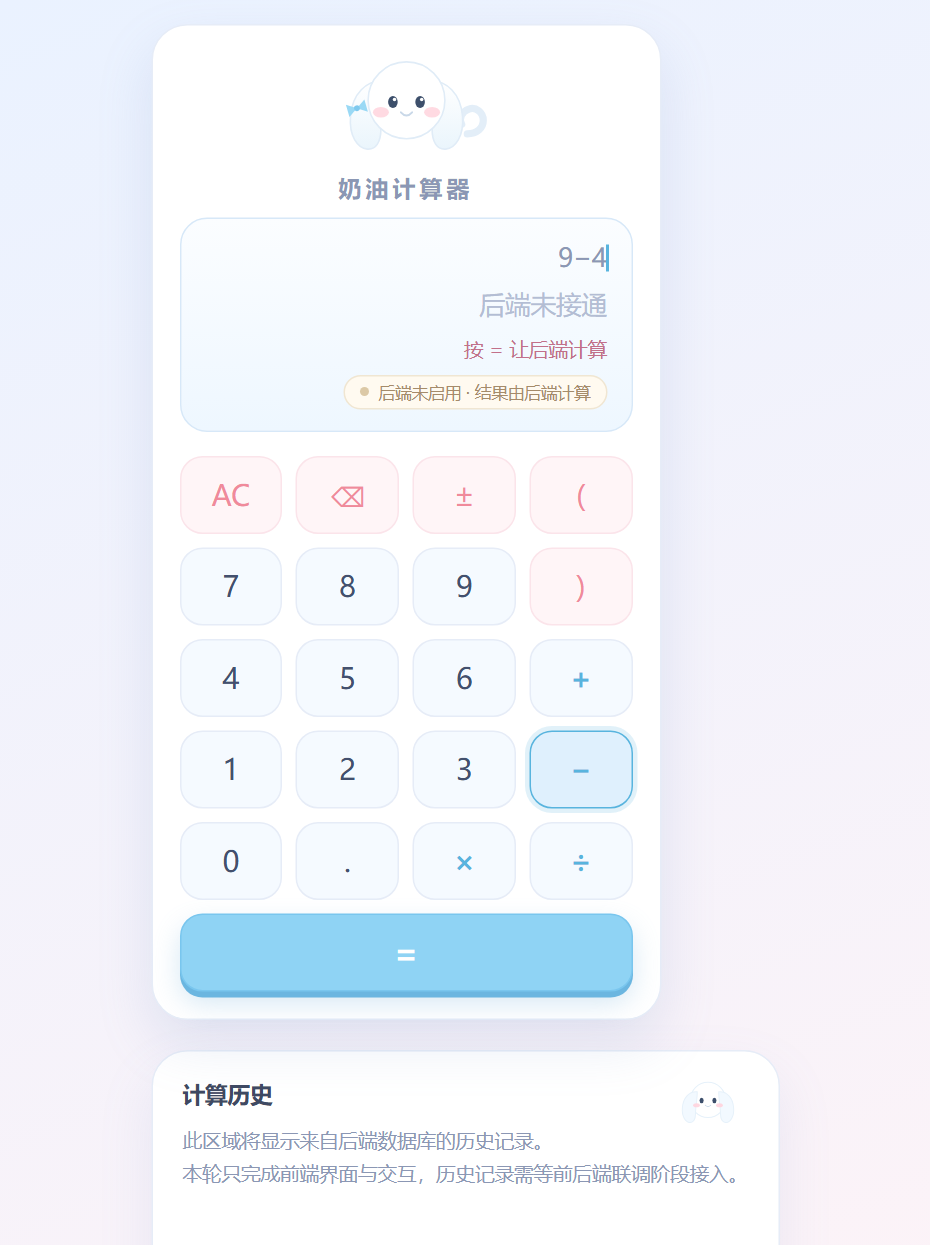
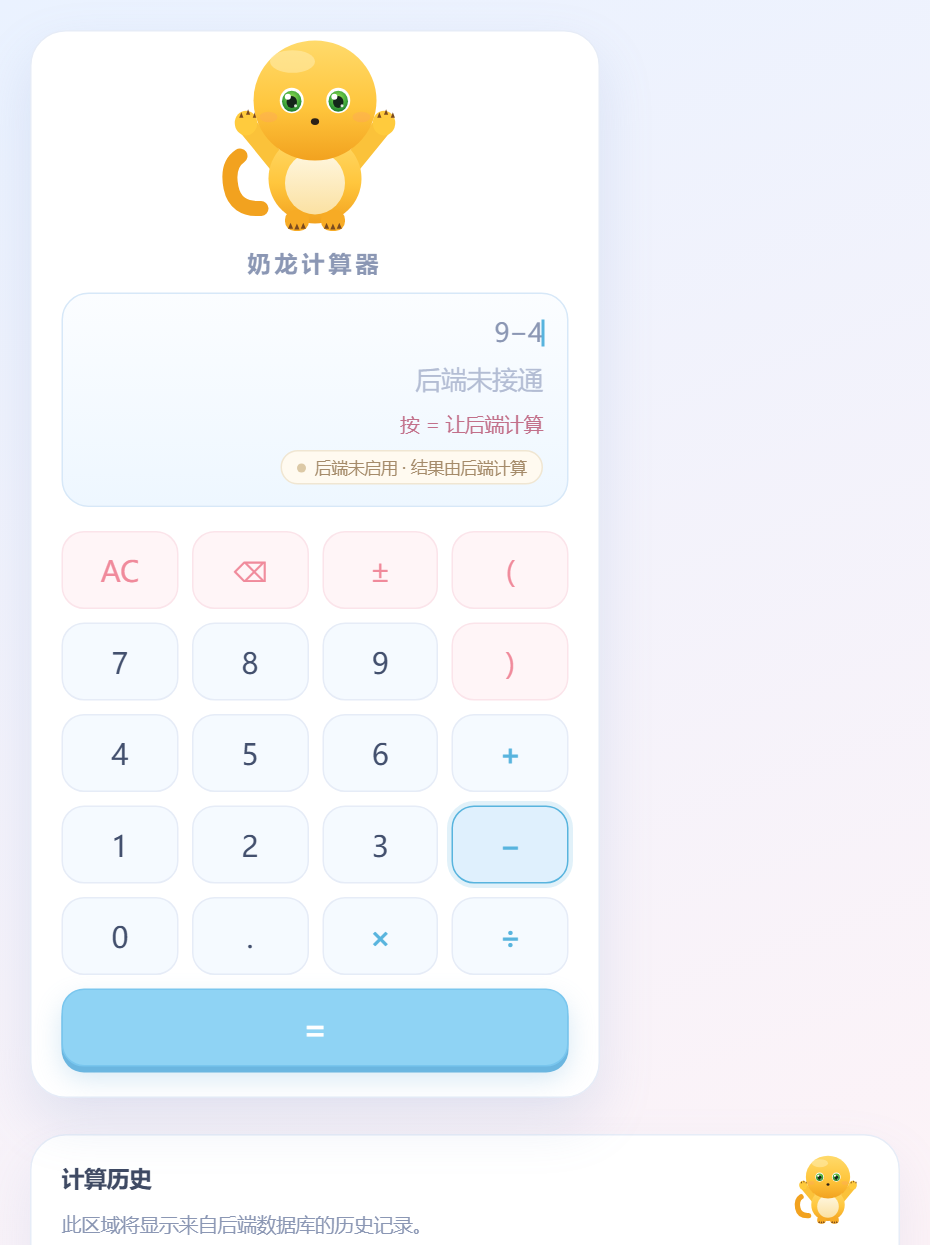
style: 改为亮色系、修正居中、吉祥物换成手绘奶龙
配色：深色改为奶油白 + 天空蓝 + 淡粉，等号做成立体糖果按钮（按下会下沉）。

居中：.app 改为 width:max-content + margin:auto，浏览器窗口越宽越能看出差别（原来会被拉满全宽导致内容偏左）。计算器宽度 340→380px。

吉祥物：原先误画成白色长耳形象，现按奶龙真实特征重画为 src/assets/奶龙.svg —— 暖黄皮肤、大圆绿眼睛、小黑鼻子（不画嘴）、浅奶油色大肚子、举起带深棕爪子的双手、粗短腿、粗尾巴。仍为手绘 SVG，不引用任何官方图片素材。

diff --git a/src/index.html b/src/index.html
@@ -11,55 +11,14 @@
   <main class="app">
     <section class="calc" aria-label="计算器">
       <!--
-        吉祥物：奶龙。
-        用**内联 SVG 手绘**，不引用任何外部图片文件 —— 所以不联网也能显示，
-        也不需要从网上下载任何素材（既避免安全风险，也没有版权问题）。
+        吉祥物：奶龙（Nailong）。
+        用**自己手绘的 SVG 文件**（src/assets/奶龙.svg），不引用任何官方图片素材：
+        不联网也能显示，不需要从网上下载图片，也不涉及他人素材的版权问题。
       -->
-      <div class="calc__mascot" aria-hidden="true">
-        <svg class="mascot" viewBox="0 0 240 172">
-          <defs>
-            <linearGradient id="earShade" x1="0" y1="0" x2="0" y2="1">
-              <stop offset="0%" stop-color="#ffffff"/>
-              <stop offset="100%" stop-color="#eaf5fc"/>
-            </linearGradient>
-          </defs>
-
-          <!-- 卷卷的小尾巴 -->
-          <path d="M196 128c12 0 20-7 20-17s-9-17-18-14-13 12-9 19"
-                fill="none" stroke="#e3eef8" stroke-width="9" stroke-linecap="round"/>
-
-          <!-- 两只长耳朵：从头顶向上再向外弯，耳尖自然垂下来 -->
-          <path d="M92 62C70 60 52 78 50 106c-2 25 9 40 21 41 11 1 17-9 17-25 0-20 6-46 12-60z"
-                fill="url(#earShade)" stroke="#e0ecf7" stroke-width="2"/>
-          <path d="M148 62c22-2 40 16 42 44 2 25-9 40-21 41-11 1-17-9-17-25 0-20-6-46-12-60z"
-                fill="url(#earShade)" stroke="#e0ecf7" stroke-width="2"/>
-
-          <!-- 脑袋 -->
-          <circle cx="120" cy="86" r="48" fill="#ffffff" stroke="#e0ecf7" stroke-width="2"/>
-
-          <!-- 圆眼睛（带一点高光） -->
-          <ellipse cx="103" cy="88" rx="6" ry="7.5" fill="#3d4f6b"/>
-          <ellipse cx="137" cy="88" rx="6" ry="7.5" fill="#3d4f6b"/>
-          <circle cx="105" cy="85" r="2.2" fill="#ffffff"/>
-          <circle cx="139" cy="85" r="2.2" fill="#ffffff"/>
-
-          <!-- 腮红 -->
-          <ellipse cx="88" cy="101" rx="10" ry="6.5" fill="#ffd3dd" opacity=".85"/>
-          <ellipse cx="152" cy="101" rx="10" ry="6.5" fill="#ffd3dd" opacity=".85"/>
-
-          <!-- 小嘴：一条浅浅的 w -->
-          <path d="M113 101q7 8 14 0" fill="none" stroke="#c9d8e8" stroke-width="2.4"
-                stroke-linecap="round"/>
-
-          <!-- 左耳上的蓝色小蝴蝶结 -->
-          <g transform="translate(58 96) rotate(-16)">
-            <path d="M0 0l-12-8v16z" fill="#9ad9f5"/>
-            <path d="M0 0l12-8v16z" fill="#9ad9f5"/>
-            <circle cx="0" cy="0" r="3.6" fill="#7fc9ee"/>
-          </g>
-        </svg>
+      <div class="calc__mascot">
+        <img class="mascot" src="assets/奶龙.svg" alt="奶龙">
       </div>
-      <h1 class="calc__title">奶油计算器</h1>
+      <h1 class="calc__title">奶龙计算器</h1>
 
       <!-- 显示屏：表达式行 + 结果行 + 提示条 + 后端状态 -->
       <div class="screen">
@@ -108,20 +67,8 @@
 
     <!-- 历史记录：本轮为占位区，按要求不放任何假数据 -->
     <aside class="history" aria-label="计算历史">
-      <!-- 历史卡片右上角的小奶龙：同一套画法，缩小复用 -->
-      <svg class="history__mascot" viewBox="0 0 240 172" aria-hidden="true">
-        <circle cx="120" cy="90" r="52" fill="#ffffff" stroke="#e6f1fa" stroke-width="3"/>
-        <path d="M88 66C64 64 46 84 44 114c-2 26 10 42 22 43 11 1 17-10 17-26 0-21 6-49 5-65z"
-              fill="#f2f9ff" stroke="#e6f1fa" stroke-width="3"/>
-        <path d="M152 66c24-2 42 18 44 48 2 26-10 42-22 43-11 1-17-10-17-26 0-21-6-49-5-65z"
-              fill="#f2f9ff" stroke="#e6f1fa" stroke-width="3"/>
-        <ellipse cx="101" cy="92" rx="6" ry="8" fill="#3d4f6b"/>
-        <ellipse cx="139" cy="92" rx="6" ry="8" fill="#3d4f6b"/>
-        <ellipse cx="86" cy="106" rx="10" ry="6" fill="#ffd3dd" opacity=".9"/>
-        <ellipse cx="154" cy="106" rx="10" ry="6" fill="#ffd3dd" opacity=".9"/>
-        <path d="M112 106q8 8 16 0" fill="none" stroke="#c9d8e8" stroke-width="3"
-              stroke-linecap="round"/>
-      </svg>
+      <!-- 历史卡片右上角的小奶龙：同一张图缩小复用 -->
+      <img class="history__mascot" src="assets/奶龙.svg" alt="">
       <h2 class="history__title">计算历史</h2>
       <p class="history__placeholder">
         此区域将显示来自后端数据库的历史记录。<br>

diff --git a/src/css/style.css b/src/css/style.css
@@ -52,11 +52,13 @@
 body {
   margin: 0;
   min-height: 100vh;
+  width: 100%;
   display: grid;
   place-items: center;
-  padding: 16px;
+  padding: 20px;
   /* 淡淡的天空蓝 → 淡粉渐变背景，比纯色更有"奶"的感觉 */
   background: linear-gradient(160deg, var(--bg-base) 0%, var(--bg-base-2) 100%);
+  background-attachment: fixed;
   color: var(--text);
   font-family: "Microsoft YaHei", system-ui, -apple-system, sans-serif;
   -webkit-user-select: none;
@@ -64,25 +66,31 @@ body {
 }
 
 /* ---------- ① 两栏：左计算器 / 右历史 ---------- */
+/* width:max-content + margin:auto：让整个组合在页面里**正中**，
+   而不是被拉满全宽后靠左对齐（浏览器窗口越宽，这个差别越明显） */
 .app {
+  width: max-content;
+  max-width: 100%;
+  margin: 0 auto;
   display: grid;
-  grid-template-columns: 340px minmax(240px, 300px);
-  gap: 20px;
+  grid-template-columns: 380px minmax(250px, 300px);
+  gap: 24px;
   align-items: start;
 }
 
-@media (max-width: 720px) {
+@media (max-width: 780px) {
   .app {
     grid-template-columns: 1fr;
+    width: 100%;
   }
 }
 
 /* ---------- ② 机身 ---------- */
 .calc {
   position: relative;
-  width: 340px;
+  width: 380px;
   /* 顶部内边距给大一点：吉祥物要在此处"探头"，不能被挤掉 */
-  padding: 22px 18px 18px;
+  padding: 24px 20px 20px;
   background: var(--card-bg);
   border: 1px solid var(--line);
   border-radius: var(--radius-card);
@@ -93,13 +101,13 @@ body {
 .calc__mascot {
   display: flex;
   justify-content: center;
-  /* 负数上边距只探出一小截，保证耳朵不会被页面顶边裁掉 */
-  margin: -18px 0 2px;
+  /* 负数上边距只探出一小截，保证不会被页面顶边裁掉 */
+  margin: -22px 0 2px;
 }
 
 .mascot {
   display: block;
-  width: 128px;
+  width: 150px;
   height: auto;
 }
 
